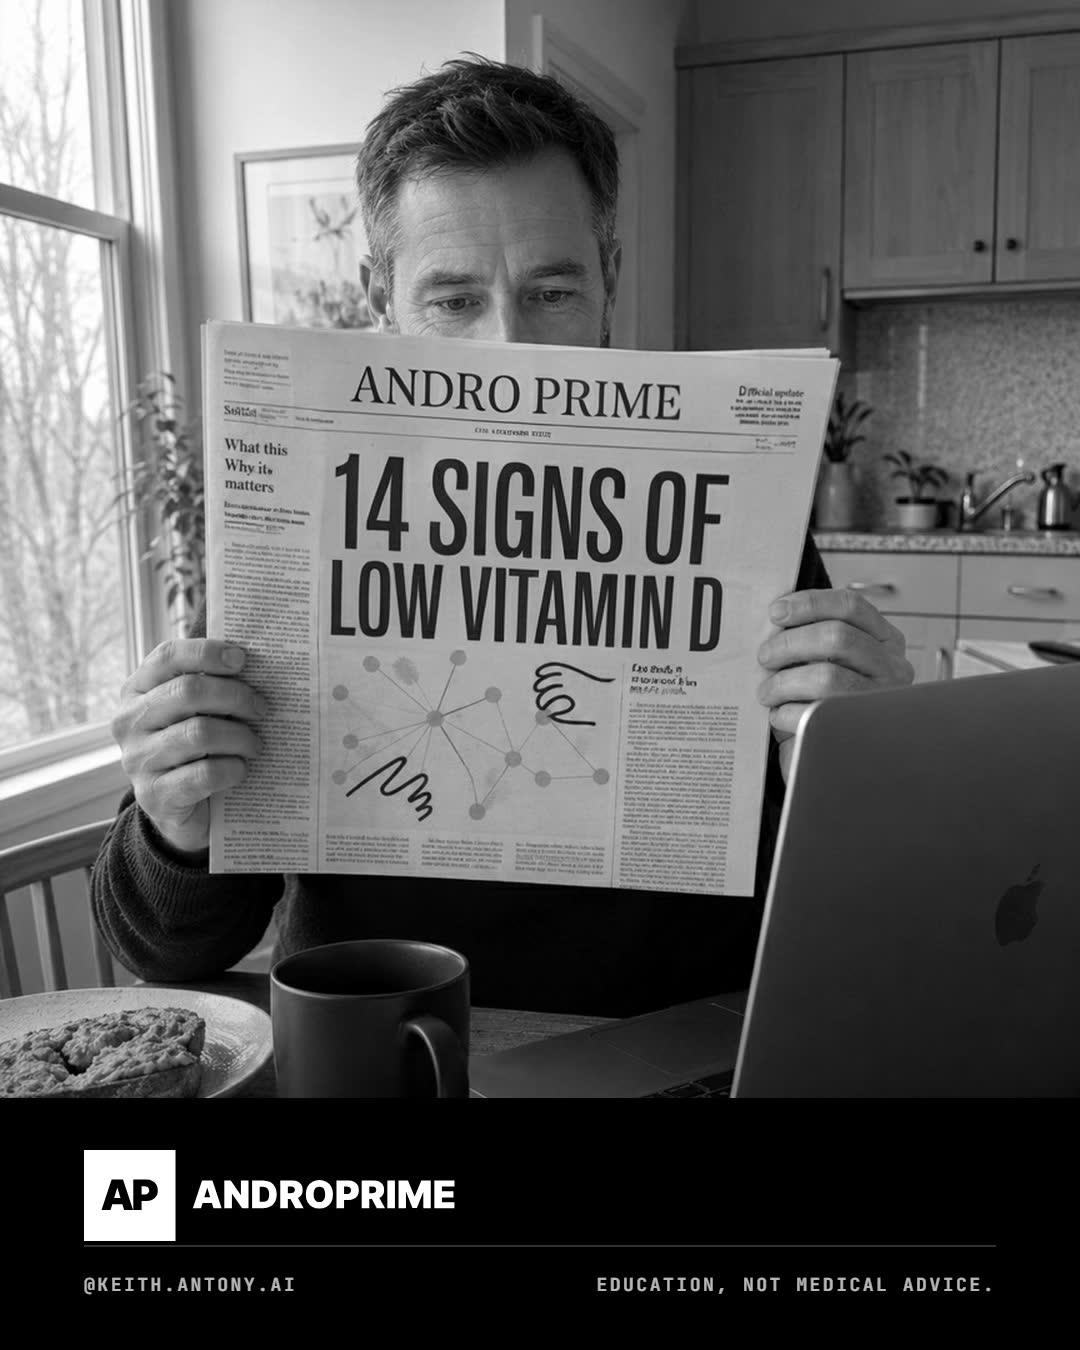
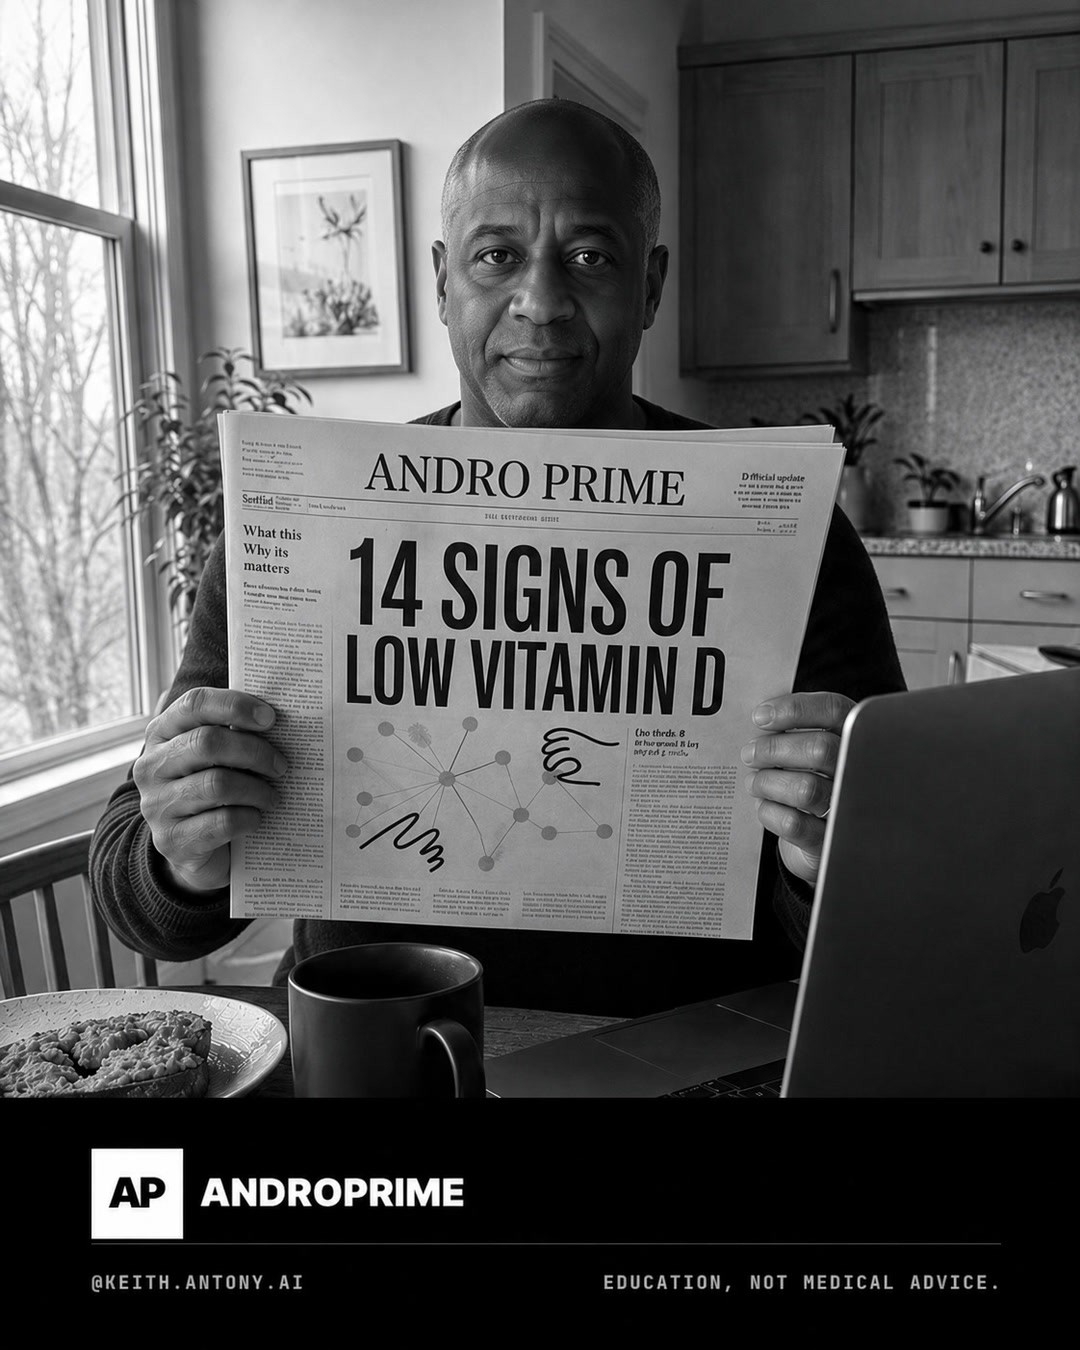
fix(marketing): swipe-order slide 01 was still the superseded cover
The "full carousel, in swipe order" and "at feed size" sections were both showing
png/slide-01, which was still built on the old kitchen photo with the previous
subject. Slides 02 to 08 were unaffected: they are type rendered from brand
tokens and contain no photograph.

Regenerated slide-01 from the current cover (base-2, eyes opened) at the 1080x1350
carousel export size, so the asset set is coherent rather than only the page
looking right. Source and target share the same 4:5 ratio, so it is a clean
rescale with no crop.

Also noted on the page that slot 1 ships as one of the three animated covers and
is only shown as a still so the swipe order reads in one line.

diff --git a/andro-prime/06_marketing/content/instagram/carousel-prototype/review.html b/andro-prime/06_marketing/content/instagram/carousel-prototype/review.html
@@ -190,8 +190,13 @@
 </div>
 
 <h2>Full carousel, in swipe order</h2>
-<div class="strip">
-  <figure><img src="png/slide-01.jpg"><figcaption>01 · cover (generated)</figcaption></figure>
+<p class="note">
+  Slot 1 is shown here as a still so the swipe order reads in one line. It ships as one of the three
+  animated covers above. Slides 2 to 8 are rendered deterministically from brand tokens, so no model
+  ever draws a letterform in them.
+</p>
+<div class="strip" style="margin-top:18px">
+  <figure><img src="png/slide-01.jpg"><figcaption>01 · cover · current base, ships as video</figcaption></figure>
   <figure><img src="png/slide-02.png"><figcaption>02 · the setup</figcaption></figure>
   <figure><img src="png/slide-03.png"><figcaption>03 · signs 01–04</figcaption></figure>
   <figure><img src="png/slide-04.png"><figcaption>04 · signs 05–09</figcaption></figure>
